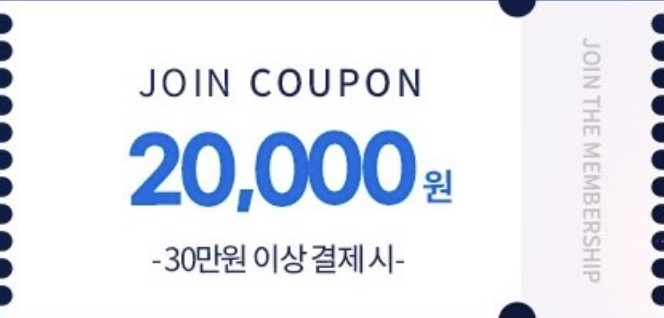
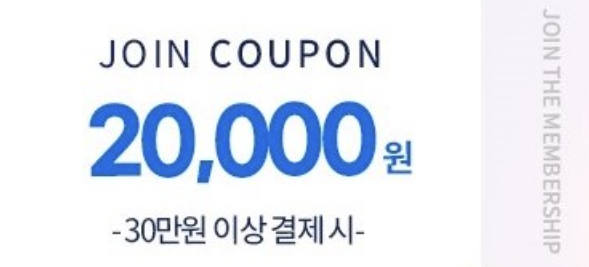
feat:무한스크롤

diff --git a/src/app/(route)/testdetail/components/AccommodationList.jsx b/src/app/(route)/testdetail/components/AccommodationList.jsx
@@ -1,0 +1,55 @@
+import Icons from "@/components/icons/icons";
+import { cn } from "@/utils/cn";
+
+
+const AccommodationList = ({ data }) => {
+
+  return (
+    <div className="w-full lg:grid lg:grid-cols-2">
+      {data.map((item, index) => (
+        <div
+          key={item?.id}
+          className={cn(
+            "flex flex-col",
+            index % 2 === 0 ? "border-r border-solid border-gray-300" : "",
+            index < data.length - 2 && "border-b border-solid border-gray-300"
+          )}
+        >
+          <div className="m-6">
+            <div className="rounded-md h-[200px] bg-gray-100 min-w-[170px] relative z-0">
+              <img
+                src={item?.image}
+                alt={item?.accommodationName
+                }
+                className="w-full h-full object-cover rounded-md"
+              />
+              <div className="rounded-b-lg absolute inset-x-0 bottom-0 h-8 bg-black bg-opacity-50 text-white p-1 pl-3 flex justify-start">
+                <div className="flex text-sm items-center gap-1">
+                  <Icons type="LocationOnOutlinedIcon" size="small" color="primary" additionalClass="text-base" />
+                  <p className="font-semibold">{item?.area}</p>
+                  <p className="ml-1">{item?.address}</p>
+                </div>
+              </div>
+            </div>
+            <div className="flex-col p-3 mt-1 flex space-y-3 justify-between w-full">
+              <h1 className="font-bold text-xl mb-2">{item?.accommodationName
+              }</h1>
+              <p className="text-lg text-gray-500">{item?.category}</p>
+              <div className="text-right">
+                <p className="text-lg">숙박 15:00 ~</p>
+                <div className="flex justify-end items-center">
+                  <h2 className="font-bold text-2xl mr-1">
+                    {item?.minPrice?.toLocaleString()}원~
+                  </h2>
+                  <p className="font-bold text-lg">/박</p>
+                </div>
+              </div>
+            </div>
+          </div>
+        </div>
+      ))}
+    </div>
+  );
+};
+
+export default AccommodationList;

diff --git a/src/app/(route)/testdetail/page.jsx b/src/app/(route)/testdetail/page.jsx
@@ -1,0 +1,63 @@
+'use client'
+import axios from 'axios';
+import React, { useCallback, useEffect, useRef, useState } from 'react';
+import AccommodationList from './components/AccommodationList';
+import useIntersectionObserver from './hooks/useIntersectionObserver';
+import Loading from './components/Loading';
+import Loader from './components/Loader';
+import { useInfiniteQuery } from 'react-query';
+
+export default function Home() {
+  const [isEnd, setIsEnd] = useState(false)
+  const ref = useRef()
+  const pageRef = useIntersectionObserver(ref, {})
+  const isPageEnd = !!pageRef?.isIntersecting
+
+  const fetchRoom = async ({ page }) => {
+    const { data } = await axios.get("http://3.35.216.158:8080/api/accommodation", {
+      params: {
+        page: page
+      }
+    });
+    return data;
+  }
+
+  const { data: allRoom, fetchNextPage, hasNextPage, isLoading } = useInfiniteQuery({
+    queryKey: ['allRoom'],
+    queryFn: ({ pageParam = 0 }) => fetchRoom({ page: pageParam }),
+    getNextPageParam: (lastPage) => lastPage.last ? undefined : lastPage.number + 1
+  });
+
+  const fetchNext = useCallback(async () => {
+    setIsEnd(false)
+    const res = await fetchNextPage();
+    if (res.isError) {
+      console.log(res.error);
+    }
+  }, [fetchNextPage]);
+
+  useEffect(() => {
+    let timerId
+    if (isPageEnd && hasNextPage) {
+      setIsEnd(true)
+      timerId = setTimeout(() => {
+        fetchNext();
+      }, 2000);
+    }
+    return () => clearTimeout(timerId);
+
+  }, [isPageEnd, hasNextPage, fetchNext])
+
+  return (
+    <>
+      {isLoading && (<Loading />)}
+      {allRoom?.pages.map((page, index) => (
+        <React.Fragment key={index}>
+          <AccommodationList data={page.content} />
+        </React.Fragment>
+      ))}
+      {(isEnd) && <Loader />}
+      <div className='w-full touch-none h-10 mb-10' ref={ref} />
+    </>
+  );
+}

diff --git a/src/components/couponSlide/CouponSlide.jsx b/src/components/couponSlide/CouponSlide.jsx
@@ -4,13 +4,13 @@ import React from 'react'
 const CouponSlide = () => {
     return (
         <div className='flex items-center mt-4 mb-4 flex-1 '>
-            <div className='mr-4 rounded-xl w-[250px] h-[150px] cursor-pointer overflow-hidden hover:filter hover:brightness-95 transition duration-200 ease-in-out'>
+            <div className=' mr-4 rounded-xl w-full h-[150px] cursor-pointer overflow-hidden hover:filter hover:brightness-95 transition duration-200 ease-in-out '>
                 <img className="rounded-xl w-full object-cover block" src="/couponImages/20000won.png" alt="" />
             </div>
-            <div className='mr-4 rounded-xl w-[250px] h-[150px] cursor-pointer overflow-hidden hover:filter hover:brightness-95 transition duration-200 ease-in-out'>
+            <div className='  mr-4 rounded-xl w-full h-[150px] cursor-pointer overflow-hidden hover:filter hover:brightness-95 transition duration-200 ease-in-out '>
                 <img className="rounded-xl w-full object-cover block" src="/couponImages/30000won.png" alt="" />
             </div>
-            <div className='rounded-xl w-[250px] h-[150px] cursor-pointer overflow-hidden hover:filter hover:brightness-95 transition duration-200 ease-in-out'>
+            <div className=' rounded-xl w-full h-[150px] cursor-pointer overflow-hidden hover:filter hover:brightness-95 transition duration-200 ease-in-out border '>
                 <img className="rounded-xl w-full object-cover block" src="/couponImages/50000won.png" alt="" />
             </div>
         </div>

diff --git a/src/app/(route)/testdetail/components/Loading.jsx b/src/app/(route)/testdetail/components/Loading.jsx
@@ -1,0 +1,31 @@
+export default function Loading() {
+    return (
+        <>
+          <div className="w-full lg:grid lg:grid-cols-2">
+            {[...Array(10)].map((_, index) => (
+              <div
+                key={index}
+                className={(
+                  "flex flex-col",
+                  index % 2 === 0 ? "border-r border-solid border-gray-300" : "",
+                  index < 9 && "border-b border-solid border-gray-300"
+                )}
+              >
+                <div className="m-6">
+                  <div className="rounded-md h-[200px] bg-gray-100 min-w-[170px] relative z-0">
+                    <div className="w-full h-full bg-gray-200 animate-pulse rounded-md" />
+                  </div>
+                  <div className="flex-col p-3 mt-1 flex space-y-3 justify-between w-full">
+                    <div className="bg-gray-200 animate-pulse h-5 w-3/4 rounded-md" />
+                    <div className="bg-gray-200 animate-pulse h-4 w-1/2 rounded-md" />
+                    <div className="bg-gray-200 animate-pulse h-4 w-1/4 rounded-md" />
+                    <div className="bg-gray-200 animate-pulse h-4 w-1/2 rounded-md" />
+                    <div className="bg-gray-200 animate-pulse h-4 w-1/4 rounded-md" />
+                  </div>
+                </div>
+              </div>
+            ))}
+          </div>
+        </>
+      );
+}

diff --git a/src/app/(route)/testdetail/hooks/useIntersectionObserver.js b/src/app/(route)/testdetail/hooks/useIntersectionObserver.js
@@ -1,0 +1,29 @@
+import { RefObject, useState, useEffect } from "react";
+
+function useIntersectionObserver(elementRef, { threshold = 0.1, root = null, rootMargin = "0%" }) {
+  const [entry, setEntry] = useState();
+
+  const updateEntry = ([entry]) => {
+    setEntry(entry);
+  };
+
+  useEffect(() => {
+    const node = elementRef?.current;
+    const hasIOSupport = !!window.IntersectionObserver;
+
+    if (!node || !hasIOSupport) return;
+
+    const observerParams = { threshold, root, rootMargin };
+    const observer = new IntersectionObserver(updateEntry, observerParams);
+
+    observer.observe(node);
+
+    return () => observer.disconnect();
+
+    // eslint-disable-next-line react-hooks/exhaustive-deps
+  }, [elementRef?.current, root, rootMargin, JSON.stringify(threshold)]);
+
+  return entry;
+}
+
+export default useIntersectionObserver;

diff --git a/src/app/(route)/main/page.jsx b/src/app/(route)/main/page.jsx
@@ -38,16 +38,12 @@ export default function Home() {
       <MainNav />
 
       <PopularSwiper title="국내 인기 여행지"></PopularSwiper>
-      <PopularSwiper title="국내 인기 여행지"></PopularSwiper>
+
       <CouponSlideContainer />
 
       <AccommodationSwiper
         title="강릉 풀펜션"
         isButton={true}></AccommodationSwiper>
-      <AccommodationSwiper title="인기여행"></AccommodationSwiper>
-      <AccommodationSwiper title="인기여행"></AccommodationSwiper>
-      <AccommodationSwiper title="인기여행"></AccommodationSwiper>
-      <AccommodationSwiper title="인기여행"></AccommodationSwiper>
       <AccommodationSwiper title="인기여행"></AccommodationSwiper>
     </>
   );

diff --git a/src/components/couponSlide/CouponSlideContainer.jsx b/src/components/couponSlide/CouponSlideContainer.jsx
@@ -4,10 +4,10 @@ import CouponSlide from "./CouponSlide";
 
 const CouponSlideContainer = () => {
   return (
-    <section className="relative main-section-padding box-border m-auto">
+    <section className="relative w-full main-section-padding box-border">
       <div>
         <div className="flex items-center justify-between ">
-          <h1 style={{ fontWeight: "600", fontSize: "20px" }}>이벤트</h1>
+          <h1 className="flex justify-start font-bold text-lg mb-3 ">이벤트</h1>
         </div>
       </div>
       <CouponSlide />

diff --git a/src/app/(route)/layout.js b/src/app/(route)/layout.js
@@ -1,10 +1,15 @@
 "use client"
 import MainNav from '@/components/mainNav/MainNav';
+import { QueryClient, QueryClientProvider } from "react-query";
+
+const queryClient = new QueryClient()
 
 export default function Layout({ children }) {
   return (
     <>
-      {children}
+      <QueryClientProvider client={queryClient}>
+        {children}
+      </QueryClientProvider>
     </>
 
   );

diff --git a/src/app/(route)/testdetail/components/Loader.jsx b/src/app/(route)/testdetail/components/Loader.jsx
@@ -1,0 +1,9 @@
+export default function Loader({ className = "" }) {
+  return (
+    <div className={`flex gap-4 justify-center mt-10 ${className}`}>
+      <div className="w-2 h-2 animate-ping rounded-full bg-gray-800" />
+      <div className="w-2 h-2 animate-ping rounded-full bg-gray-800" />
+      <div className="w-2 h-2 animate-ping rounded-full bg-gray-800" />
+    </div>
+  );
+}

diff --git a/src/app/layout.js b/src/app/layout.js
@@ -10,6 +10,7 @@ export const metadata = {
   description: "Generated by create next app",
 };
 
+
 export default function RootLayout({ children }) {
   return (
     <html lang="ko">
